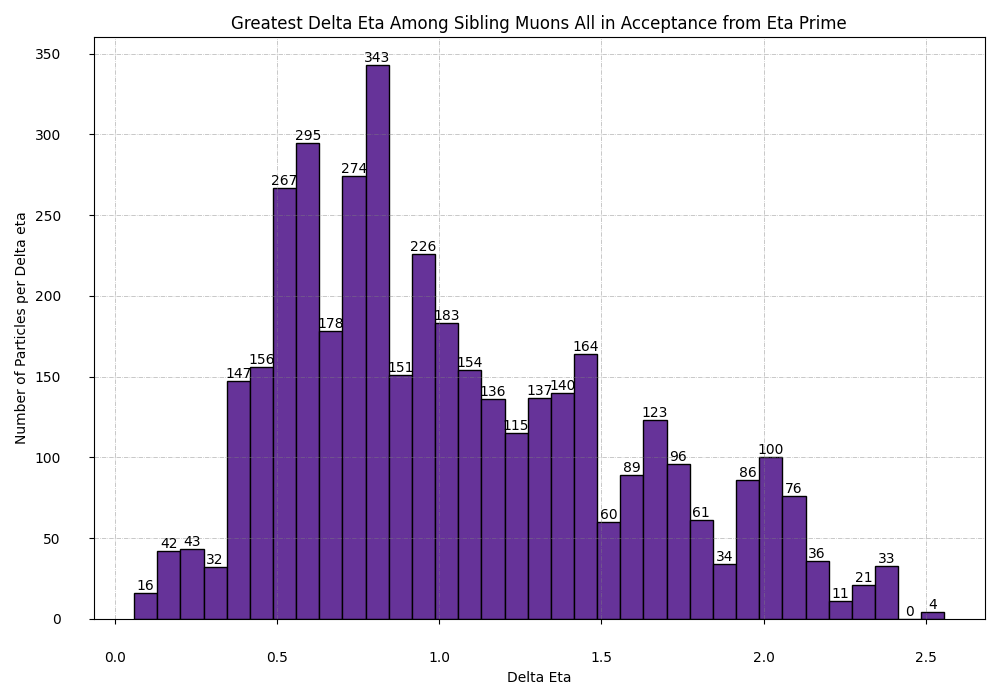
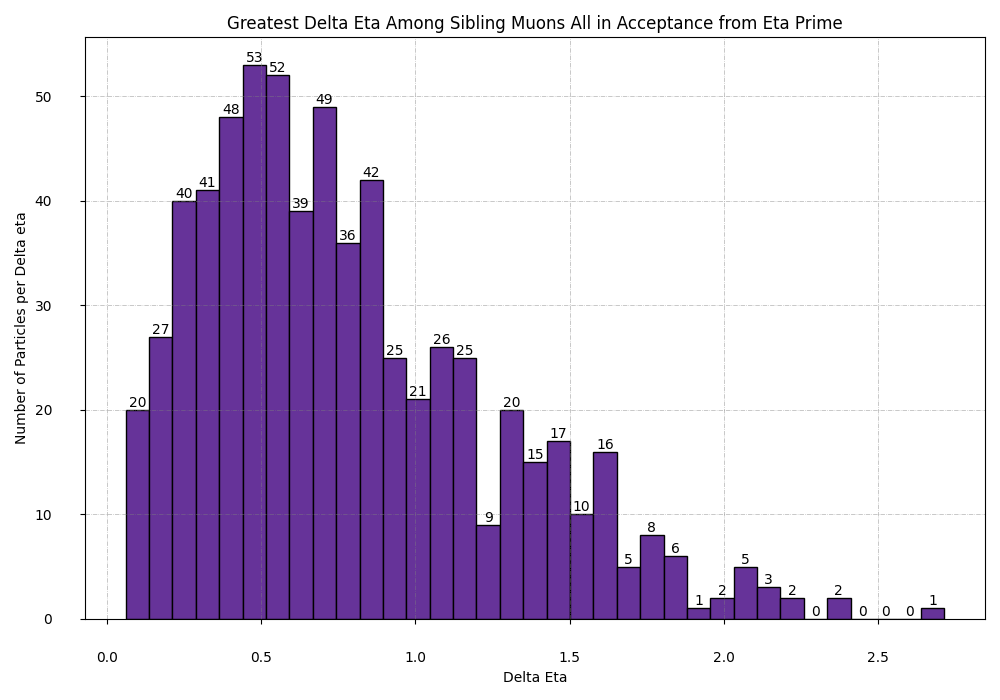
Fixed error in Eta_Prime delta eta spread histo

diff --git a/GenLevelStudies/pythia/analysis_Eta.py b/GenLevelStudies/pythia/analysis_Eta.py
@@ -265,12 +265,12 @@ plt.savefig('pythia/Histograms/prime_4Muons_delta_eta')
 # Prime Histogram 4 
 # Delta eta when all siblings are in Acceptance
 prime_delta_eta_acc_list = []
-for i in range(len(sibs_eta_acc[:,1])):
-    mineta = 0
-    maxeta = 0
-    mineta = np.min(sibs_eta_acc[i,:])
-    maxeta = np.max(sibs_eta_acc[i,:])
-    prime_delta_eta_acc = maxeta-mineta
+for i in range(len(prime_sibs_eta_acc[:,1])):
+    pmineta = 0
+    pmaxeta = 0
+    pmineta = np.min(prime_sibs_eta_acc[i,:])
+    pmaxeta = np.max(prime_sibs_eta_acc[i,:])
+    prime_delta_eta_acc = pmaxeta-pmineta
     prime_delta_eta_acc_list.append(prime_delta_eta_acc)
 
 fig, axs = plt.subplots(1, 1,
@@ -279,7 +279,7 @@ fig, axs = plt.subplots(1, 1,
 axs.grid(b = True, color ='grey', 
         linestyle ='-.', linewidth = 0.5, 
         alpha = 0.6)
-counts, edges, bars = plt.hist(delta_eta_acc_list ,edgecolor='black', color='rebeccapurple', bins=35)
+counts, edges, bars = plt.hist(prime_delta_eta_acc_list ,edgecolor='black', color='rebeccapurple', bins=35)
 plt.bar_label(bars)
 axs.xaxis.set_tick_params(pad = 20) 
 axs.yaxis.set_tick_params(pad = 20) 
@@ -297,3 +297,4 @@ print('The smallest pseudorapidty spread among siblings from eta prime is', np.a
 print('\nThe avaerage pseudorapidty spread among siblings all in acceptance from eta prime is', np.array(prime_delta_eta_acc_list).mean())
 print('The greatest pseudorapidty spread among siblings all in acceptance from eta prime is', np.array(prime_delta_eta_acc_list).max())
 print('The smallest pseudorapidty spread among siblings all in acceptance from eta prime is', np.array(prime_delta_eta_acc_list).min())
+#pdb.set_trace
